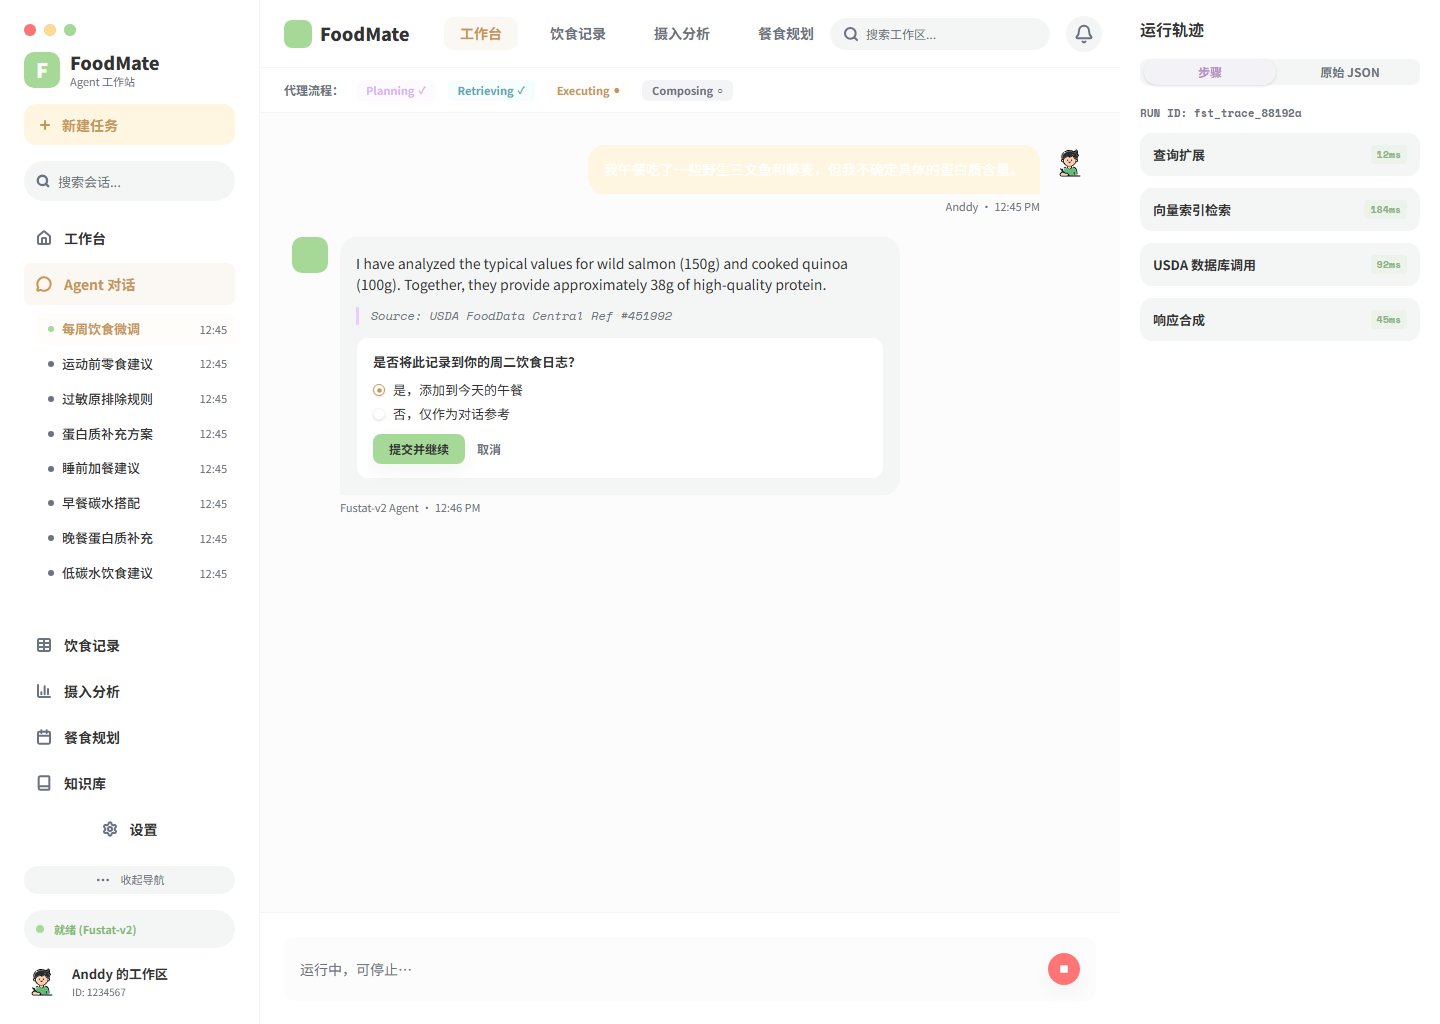
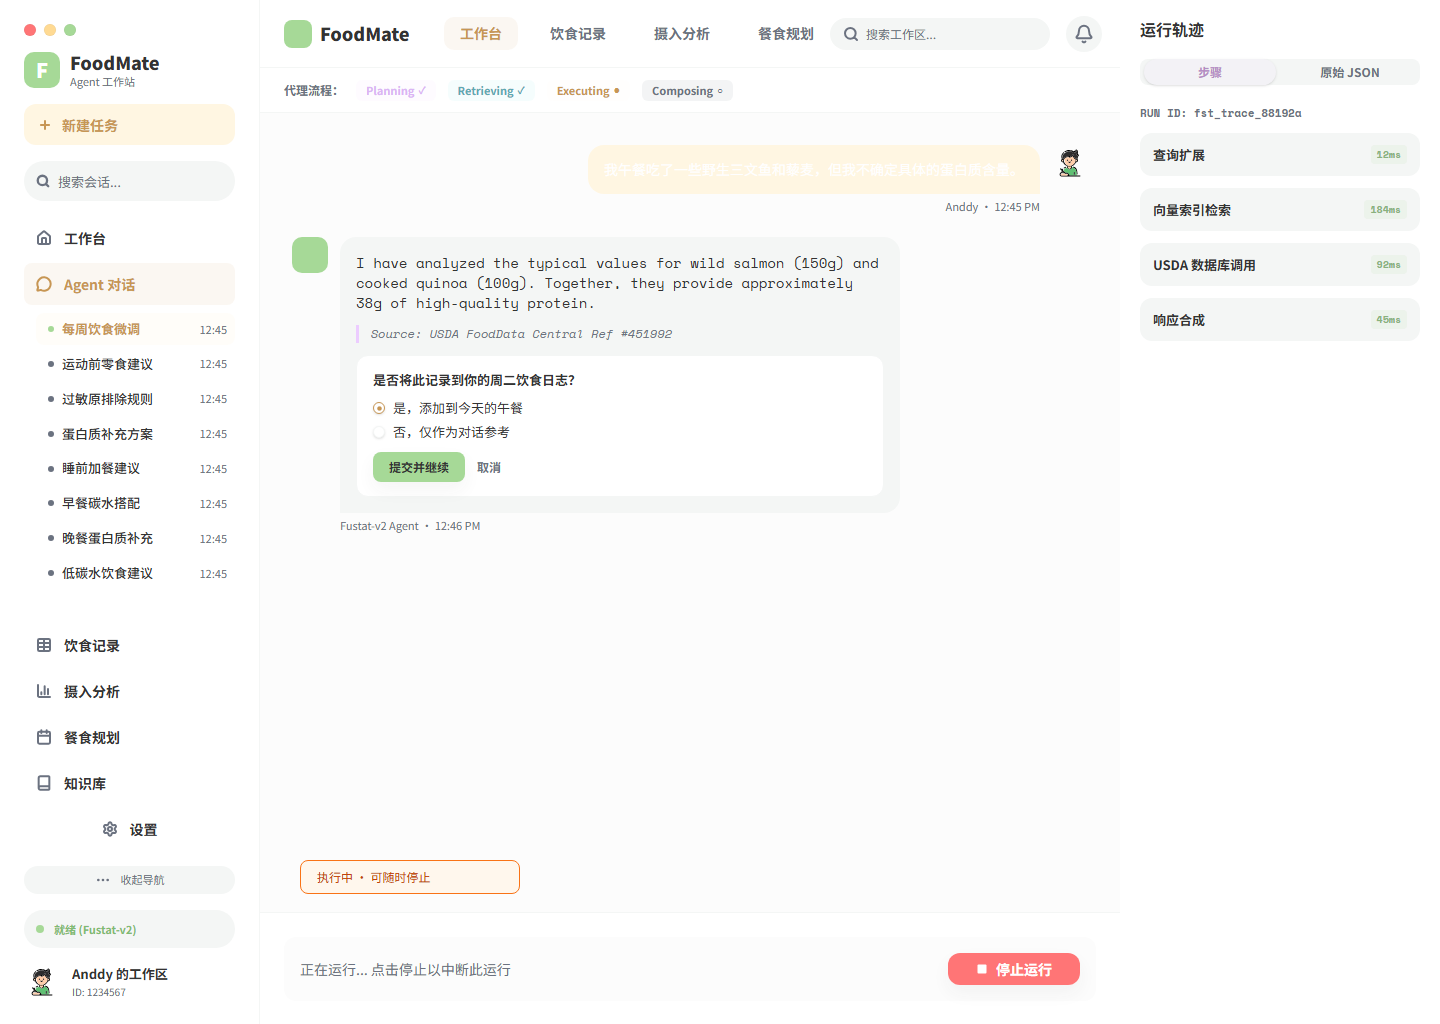
fix(ui): 收口运行中停止态与头像证据

diff --git a/foodmate-ui/src/pages/ChatPage/ChatPage.tsx b/foodmate-ui/src/pages/ChatPage/ChatPage.tsx
@@ -306,7 +306,7 @@ type ChatSurfaceProps = {
   showKnowledgeTopNav?: boolean;
   designChat?: boolean;
   fixtureVariant?: 'chat';
-  pageVariant?: 'completed-citations' | 'figma-default';
+  pageVariant?: 'completed-citations' | 'figma-default' | 'running-stop';
   statusForStrip?: AgentDisplayStatus;
   statusVisualState?: 'user-cancelled';
   pageOverlay?: ReactNode;
@@ -362,7 +362,7 @@ function ChatSurface({
       topAvatarSrc={topAvatarSrc}
     >
       <div
-        className={`${styles.page} ${designChat ? styles.designChatPage : ''} ${pageVariant === 'completed-citations' ? styles.completedCitationsPage : ''} ${pageVariant === 'figma-default' ? styles.figmaDefaultPage : ''}`}
+        className={`${styles.page} ${designChat ? styles.designChatPage : ''} ${pageVariant === 'completed-citations' ? styles.completedCitationsPage : ''} ${pageVariant === 'figma-default' ? styles.figmaDefaultPage : ''} ${pageVariant === 'running-stop' ? styles.runningStopPage : ''}`}
       >
         <section className={styles.workspace}>
           <div className={styles.center}>
@@ -374,6 +374,11 @@ function ChatSurface({
             />
             <div className={styles.messages} ref={messagesRef}>
               {children}
+              {pageVariant === 'running-stop' ? (
+                <div className={styles.runningStatus} role="status" aria-live="polite">
+                  执行中 · 可随时停止
+                </div>
+              ) : null}
             </div>
           </div>
         </section>
@@ -385,6 +390,7 @@ function ChatSurface({
           onChange={onChange}
           onSend={onSend}
           onStop={onStop}
+          runningLabel={pageVariant === 'running-stop' ? '停止运行' : undefined}
           fixtureVariant={resolvedFixtureVariant}
         />
       </div>
@@ -1282,10 +1288,10 @@ function ChatAuxStatePage({ state }: { state: ChatAuxState }) {
       onChange={setInput}
       onSend={() => setNotice('已保留输入内容，等待当前会话继续处理。')}
       onStop={() => setNotice('已请求停止当前 Run；已接收文本会保留。')}
-      placeholder={isRunning ? '运行中，可停止…' : '追问或添加自定义指令...'}
+      placeholder={isRunning ? '正在运行... 点击停止以中断此运行' : '追问或添加自定义指令...'}
       showTrace={!isCompletedCitations}
       designChat
-      pageVariant={isCompletedCitations ? 'completed-citations' : undefined}
+      pageVariant={isRunning ? 'running-stop' : isCompletedCitations ? 'completed-citations' : undefined}
       displayNameOverride="Anddy"
       profileIdOverride="1234567"
       showKnowledgeTopNav={false}

diff --git a/foodmate-ui/src/components/workspace/Composer.tsx b/foodmate-ui/src/components/workspace/Composer.tsx
@@ -13,6 +13,7 @@ type ComposerProps = {
   onSend?: () => void;
   onStop?: () => void;
   fixtureVariant?: WorkspaceFixtureVariant;
+  runningLabel?: string;
 };
 
 export function Composer({
@@ -24,6 +25,7 @@ export function Composer({
   onSend,
   onStop,
   fixtureVariant,
+  runningLabel,
 }: ComposerProps) {
   const handleSubmit = () => {
     if (running) {
@@ -36,7 +38,7 @@ export function Composer({
 
   return (
     <footer className={styles.composer}>
-      <div className={styles.inputRow}>
+      <div className={`${styles.inputRow} ${running && runningLabel ? styles.inputRowRunning : ''}`}>
         <Input
           className={styles.input}
           disabled={disabled}
@@ -58,10 +60,14 @@ export function Composer({
           variant={running ? 'destructive' : 'default'}
           size="icon"
           data-state={running ? 'running' : 'idle'}
+          data-running-label={running && runningLabel ? 'true' : undefined}
           onClick={handleSubmit}
         >
           {running ? (
-            <Square />
+            <>
+              <Square />
+              {runningLabel ? <span>{runningLabel}</span> : null}
+            </>
           ) : fixtureVariant ? (
             <FigmaWorkspaceAsset variant={fixtureVariant} name="send" />
           ) : (

diff --git a/foodmate-ui/src/pages/ChatPage/ChatPage.module.css b/foodmate-ui/src/pages/ChatPage/ChatPage.module.css
@@ -665,6 +665,37 @@
   font-family: var(--fm-font);
 }
 
+/* Figma 运行中停止态使用 Space Mono 展示已接收的 Agent 文本。 */
+.runningStopPage .assistant .messageText {
+  font-family: var(--fm-font-mono);
+  line-height: 20px;
+}
+
+.runningStopPage .messages {
+  padding-bottom: 18px;
+}
+
+/* Figma 运行中停止态的底部状态提示固定在消息区底部，避免挤压已接收文本。 */
+.runningStatus {
+  display: flex;
+  width: 220px;
+  height: 34px;
+  flex: 0 0 34px;
+  box-sizing: border-box;
+  align-items: center;
+  align-self: flex-start;
+  margin-top: auto;
+  margin-left: 8px;
+  padding: 0 16px;
+  border: 1px solid #f97316;
+  border-radius: 8px;
+  background: #fff7ed;
+  color: #c2410c;
+  font-size: 12px;
+  line-height: 16px;
+  white-space: nowrap;
+}
+
 /* Figma 节点 640:428 的助手内容区固定为 560px，右侧空白属于画板布局。 */
 .figmaDefaultPage .assistantBody {
   width: 560px;

diff --git a/foodmate-ui/src/components/common/AvatarImage.test.tsx b/foodmate-ui/src/components/common/AvatarImage.test.tsx
@@ -28,6 +28,15 @@ describe('AvatarImage', () => {
     expect(container.querySelector('img')).toHaveAttribute('data-avatar-source', 'default-male');
   });
 
+  it('does not treat authentication field icons as person avatars', () => {
+    const { container } = render(
+      <AvatarImage avatarUrl="/assets/figma/auth/foodmate-login-user.svg" gender="男" alt="头像" />,
+    );
+
+    expect(container.querySelector('img')).toHaveAttribute('src', '/assets/avatars/default-male.svg');
+    expect(container.querySelector('img')).toHaveAttribute('data-avatar-contract', 'registered-default-svg');
+  });
+
   it('falls back to the gender default when a real avatar fails to load', () => {
     vi.stubEnv('VITE_AGENT_MODE', 'real');
     const { container } = render(<AvatarImage avatarUrl="/api/users/me/avatar" allowUploaded gender="女" alt="头像" />);

diff --git a/foodmate-ui/src/components/workspace/Composer.module.css b/foodmate-ui/src/components/workspace/Composer.module.css
@@ -21,6 +21,10 @@
   background: var(--fm-fixture-composer-input-surface, var(--fm-bg-soft));
 }
 
+.inputRowRunning {
+  grid-template-columns: minmax(0, 1fr) 132px;
+}
+
 .input {
   width: 100%;
   height: 32px;
@@ -62,9 +66,24 @@
   color: var(--destructive-foreground);
 }
 
+.iconButton[data-state='running'][data-running-label='true'] {
+  width: 132px;
+  gap: 8px;
+  padding: 0 16px;
+  border-radius: 12px;
+  font-size: 14px;
+  font-weight: 700;
+  white-space: nowrap;
+}
+
 .iconButton svg {
   width: 14px;
   height: 14px;
+}
+
+.iconButton[data-state='running'][data-running-label='true'] svg {
+  width: 12px;
+  height: 12px;
 }
 
 .iconButton > img {

diff --git a/foodmate-ui/src/pages/ChatPage/ChatPage.test.tsx b/foodmate-ui/src/pages/ChatPage/ChatPage.test.tsx
@@ -531,6 +531,8 @@ describe('ChatPage Figma running-stop fixture', () => {
 
     expect(screen.getByText('USDA FoodData Central Ref #451992', { exact: false })).toBeInTheDocument();
     expect(screen.getByText('响应合成')).toBeInTheDocument();
+    expect(screen.getByRole('status')).toHaveTextContent('执行中 · 可随时停止');
+    expect(screen.getByText('停止运行')).toBeInTheDocument();
     expect(screen.getByRole('button', { name: '停止生成' })).toBeEnabled();
     expect(screen.queryByText('消息操作')).not.toBeInTheDocument();
   });

diff --git a/docxs/功能实现说明/前端已完成实现清单.md b/docxs/功能实现说明/前端已完成实现清单.md
@@ -1,5 +1,20 @@
 # 前端已完成实现清单
 
+## 当前批次：Chat 运行中停止态收口与头像来源复核（2026-09-12）
+
+本批次只处理 `agent-chat-running-stop` 画板和头像来源核验，不重新验收其它 104 个画板。页面仍以 Figma 为唯一视觉来源，shadcn/Radix 只提供控件能力。
+
+- [x] 运行中停止态 Composer 已为文字按钮切换到 `minmax(0, 1fr) 132px` 网格列，修复停止按钮溢出和截断；消息区底部状态提示按 Figma 参考收口到 `18px` 底部间距。
+- [x] `/chat?state=running-stop` 保留已接收文本、运行轨迹和停止动作，并显示 `执行中 · 可随时停止` 与 `停止运行`；回归断言覆盖状态提示和停止按钮。
+- [x] 重新采集 `agent-chat-running-stop`：Figma 节点 `1013:653`，浏览器视口 `1440×1024`、DPR `1`、字体 `loaded`、无横向溢出；PNG diff 为 `280253 / 1474560` 个差异像素、`19.0059%`、`MAE 3.075319`、`RMSE 18.045960`、最大通道差异 `212`，继续保持 `DIFF_REVIEW`。
[1 lines of base64/hex data omitted]
+- [x] 通过 Figma MCP 只读回读实时文件 `MX18RZCfAmgprNzxItkHUH`：`🎨 :: Design` 页面共 192 个头像容器，其中男性 189 个、女性 3 个；内部根节点分别为 `User-provided male default SVG` 和 `User-provided female default SVG`，可疑头像容器为 `0`。本批次没有重复写入已正确的 Figma 节点。
+- [x] 当前实时 Figma 页面结构已回读为 `🎨 :: Design`（105 个画板）、`01 Foundations`、`02 Components - User`、`03 Components - Admin`、`⚡ :: Assets`、`💐 :: Cover` 和 `🗄 :: Archive`；旧的“只有四个页面”结论不再作为当前文件状态。
+- [x] `.qa/figma-pixel-acceptance/legacy-avatars/` 仅保留历史验收证据，不属于 Vite 运行时；认证目录中的 `foodmate-*-user.svg` 是表单字段装饰图标，不是人物头像，不能删除或替换成头像。
+- [x] 本大点统一门禁：Vitest `46/46` 个测试文件、`308/308` 个用例通过；`typecheck`、`lint`、`format:check`、`build`、`qa:figma:validate` 和 `git diff --check` 均通过。Figma 证据校验为 `structuralPass=true`、`strictDprPass=true`、`mappedPass=0`、`diffReview=105`、`errors=[]`。
+- [ ] 本大点只复核 1 个受影响画板，不把局部截图改善或头像资源回读误写成全量像素级 `PASS`；全量仍为 `105 DIFF_REVIEW / 0 PASS / 0 UNMAPPED / 0 SIZE_MISMATCH`。
+- [ ] iconfont 实体包、CSS/Unicode 映射、来源、许可证和 glyph-Figma 映射仍未提供，登记状态继续保持 `BLOCKED`。
+
 ## 当前批次：Chat 头像修正版证据登记（2026-09-12）
 
 本批次只处理 Agent Chat 相关的 11 个受影响画板，登记头像修正后的 Figma/浏览器截图和独立 diff，不重新采集或判定其它画板。Figma 设计稿不因本批次再次修改；所有页面仍以 Figma 作为唯一视觉来源，shadcn/Radix 只提供控件能力。

diff --git a/docxs/功能实现说明/Figma前端像素级验收报告.md b/docxs/功能实现说明/Figma前端像素级验收报告.md
@@ -2,6 +2,22 @@
 
 更新时间：2026-09-12
 
+## 1.1.12 2026-09-12 Agent Chat 运行中停止态与头像来源复核
+
+本批次只复核 Figma 节点 `1013:653` 对应的运行中停止态，不重新采集其它 104 个画板。头像核验同时覆盖当前前端运行时资源、生产构建产物和实时 Figma `🎨 :: Design` 页面。
+
+| 画板 | Figma 节点 | Figma PNG | 浏览器 PNG | diff JSON | 视口 / DPR | 差异比例 | MAE | RMSE | 最大通道差异 | 结论 |
+|---|---|---|---|---|---|---:|---:|---:|---:|---|
+| 运行中停止 | `1013:653` | `recaptured-figma/agent-chat-running-stop-figma-2026-09-12-avatar-fixed.png` | `recaptured/dpr1-agent-chat-running-stop-browser-2026-09-12.png` | `recaptured/agent-chat-running-stop-current-diff-2026-09-12-avatar-fixed.json` | 1440×1024 / 1 | 19.0059% | 3.075319 | 18.045960 | 212 | `DIFF_REVIEW` |
+
+- [x] 浏览器证据确认字体状态为 `loaded`、DPR 为 `1`、页面无横向溢出；Figma 与浏览器 PNG 均为 `1440×1024`。
+- [x] 运行中停止态已修复文字停止按钮的网格溢出，保留已接收文本和运行轨迹；自动 diff 仍非零，不能标记 `PASS`。
+- [x] Figma MCP 只读回读确认 `🎨 :: Design` 页面 192 个头像容器全部使用用户提供的两份 SVG 根节点：男性 189 个、女性 3 个、可疑容器 0 个。当前 Figma 浏览器会话显示为访客态，本批次没有伪造 Figma 写入结果。
[1 lines of base64/hex data omitted]
+- [x] 历史真人头像只存在于 `.qa/figma-pixel-acceptance/legacy-avatars/` 验收证据；`public/assets/figma/auth/foodmate-*-user.svg` 仅为认证输入框装饰图标。
+- [x] 本大点统一门禁：Vitest `46/46` 个测试文件、`308/308` 个用例通过；`typecheck`、`lint`、`format:check`、`build`、`qa:figma:validate` 和 `git diff --check` 均通过。当前聚合仍为 `105 DIFF_REVIEW / 0 PASS / 0 UNMAPPED / 0 SIZE_MISMATCH`。
+- [ ] iconfont 实体包、CSS/Unicode 映射、来源、许可证和 glyph-Figma 映射仍缺失，继续保持 `BLOCKED`。
+
 ## 1.1.11 2026-09-12 Agent Chat 头像修正版定向验收
 
 本批次仅复核 11 个受当前 Chat 视觉收口影响的画板，不重新采集其它 94 个画板。Figma PNG 使用头像修正后的原始尺寸，浏览器 PNG 使用对应视口、DPR 1 和字体加载完成条件；自动 diff 均为同尺寸 `COMPARED`，人工结论全部保留 `DIFF_REVIEW`。
